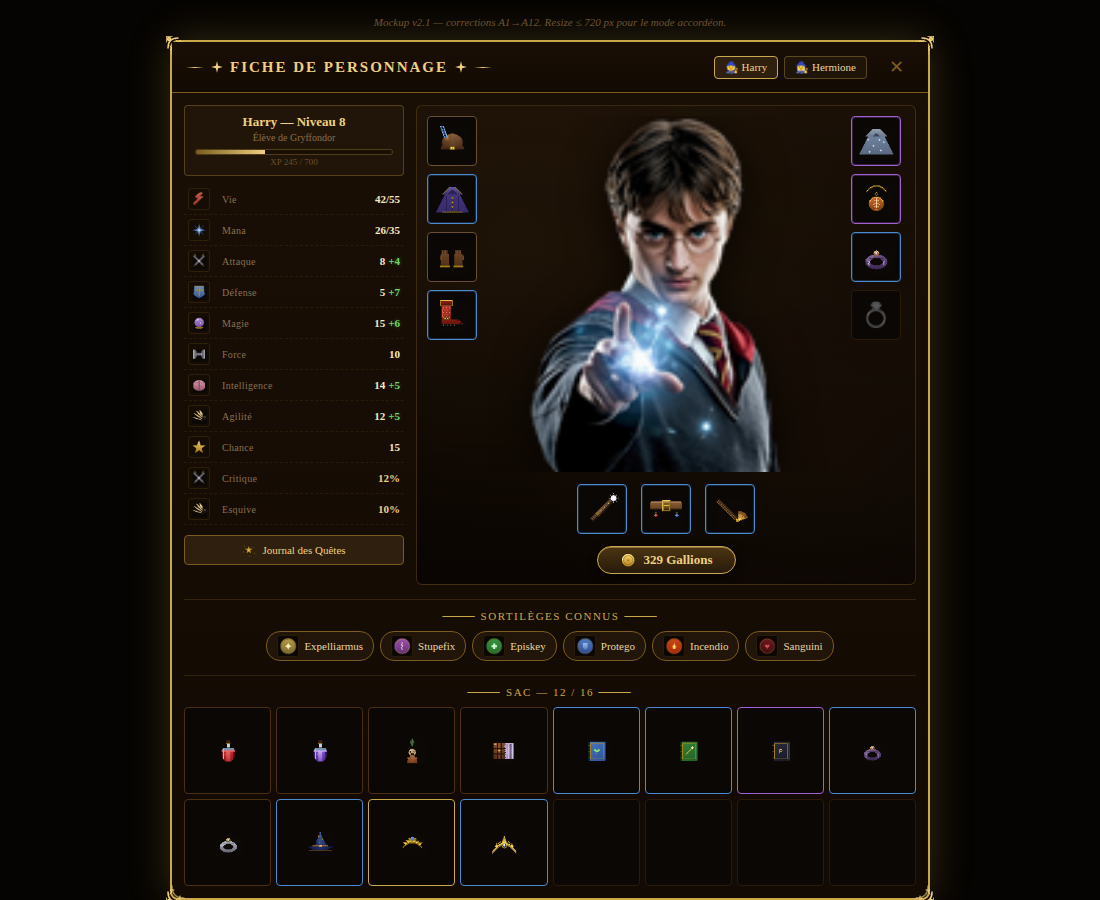
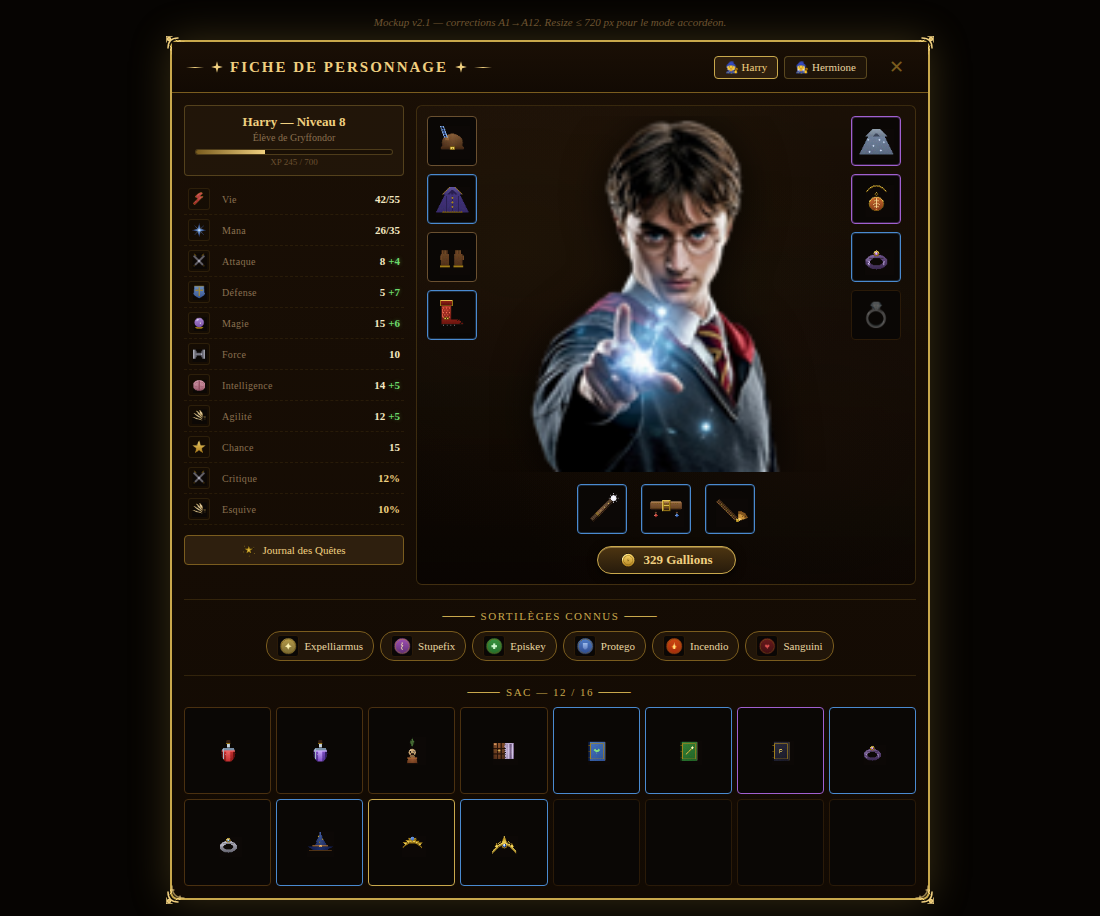
fix(character): mockup v2.8 — object-fit:contain + capture fullPage modale entière
Deux problèmes restants identifiés sur v2.7 :
1. object-fit:cover coupait le bas du buste de manière brutale,
   donnant l'impression que Harry était "raboté à la taille".
   Solution : retour à object-fit:contain + object-position:center bottom
   → le perso est entier, ancré en bas de la zone.
2. La capture mobile faisait 924 px (limitée par max-height de la
   modale + overflow:auto interne) et ne montrait que le haut de la
   page. Solution dans tools/screenshot-mockup.js : avant chaque
   capture, neutraliser max-height et overflow-y, puis fullPage:true.
   Résultat : 1453 px capturés en mobile, toute la modale visible
   (équipement + sortilèges + sac).

Les deux captures (desktop + mobile) montrent maintenant l'intégralité
du contenu — plus de surprises ou de morceaux invisibles dans la
revue utilisateur.

diff --git a/tools/screenshot-mockup.js b/tools/screenshot-mockup.js
@@ -15,9 +15,15 @@ const URL = 'file://' + path.resolve(__dirname, 'mockup_character_v2.html');
     const ctx  = await browser.newContext({ viewport: { width: v.w, height: v.h }, deviceScaleFactor: 1 });
     const page = await ctx.newPage();
     await page.goto(URL, { waitUntil: 'networkidle' });
+    await page.evaluate(() => {
+      const m = document.querySelector('.modal');
+      if (m) { m.style.maxHeight = 'none'; }
+      const b = document.querySelector('.modal-body');
+      if (b) { b.style.overflowY = 'visible'; }
+    });
     await page.waitForTimeout(300);
     const out = path.resolve(__dirname, `mockup-${v.name}.png`);
-    await page.screenshot({ path: out, fullPage: false });
+    await page.screenshot({ path: out, fullPage: true });
     console.log(`✅ ${v.name} → ${out}`);
     await ctx.close();
   }

diff --git a/tools/mockup_character_v2.html b/tools/mockup_character_v2.html
@@ -238,8 +238,8 @@ body {
 .paper-doll-stage .pd-portrait{
   position:relative; z-index:2;
   width:100%; height:100%;
-  object-fit:cover;
-  object-position:center top;
+  object-fit:contain;          /* on voit tout le perso, pas de coupe brutale */
+  object-position:center bottom;
   filter:drop-shadow(0 8px 22px rgba(0,0,0,0.75));
 }
 .paper-doll-bottom{
